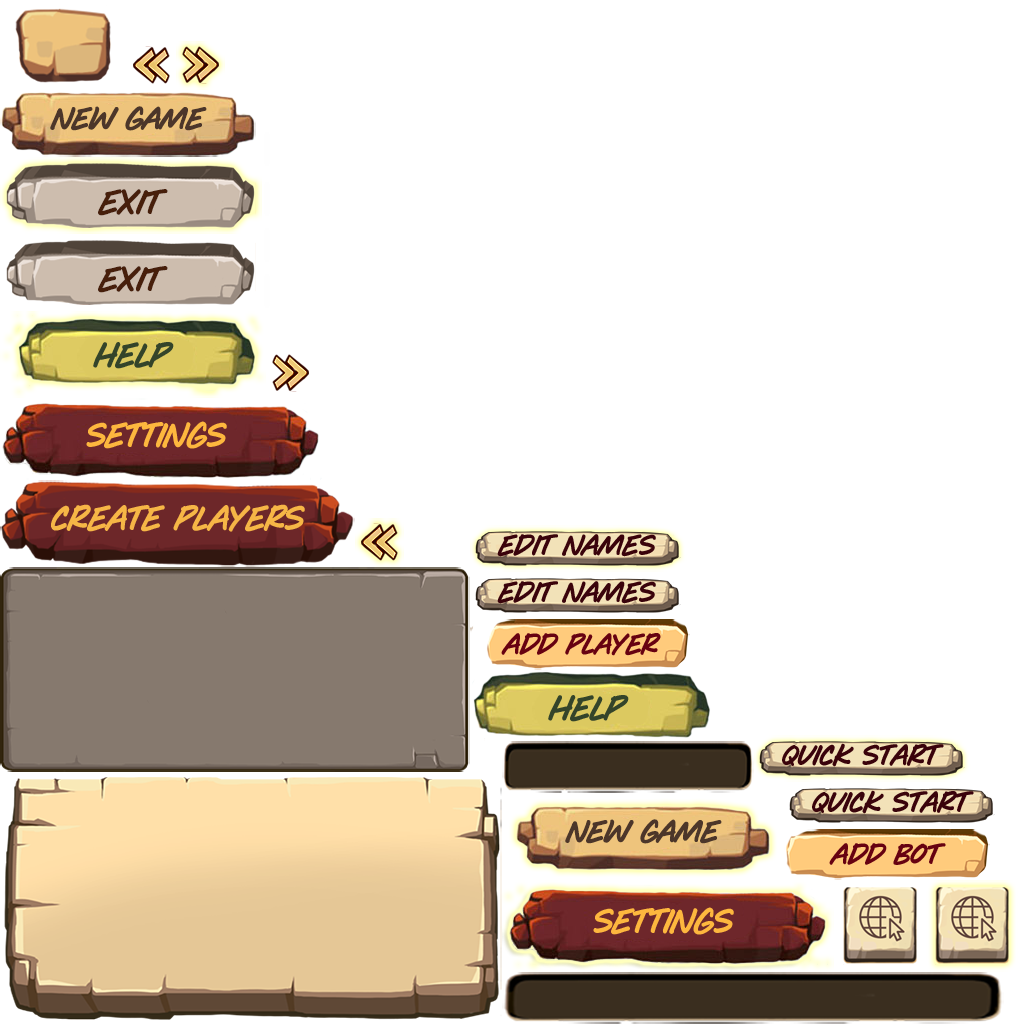
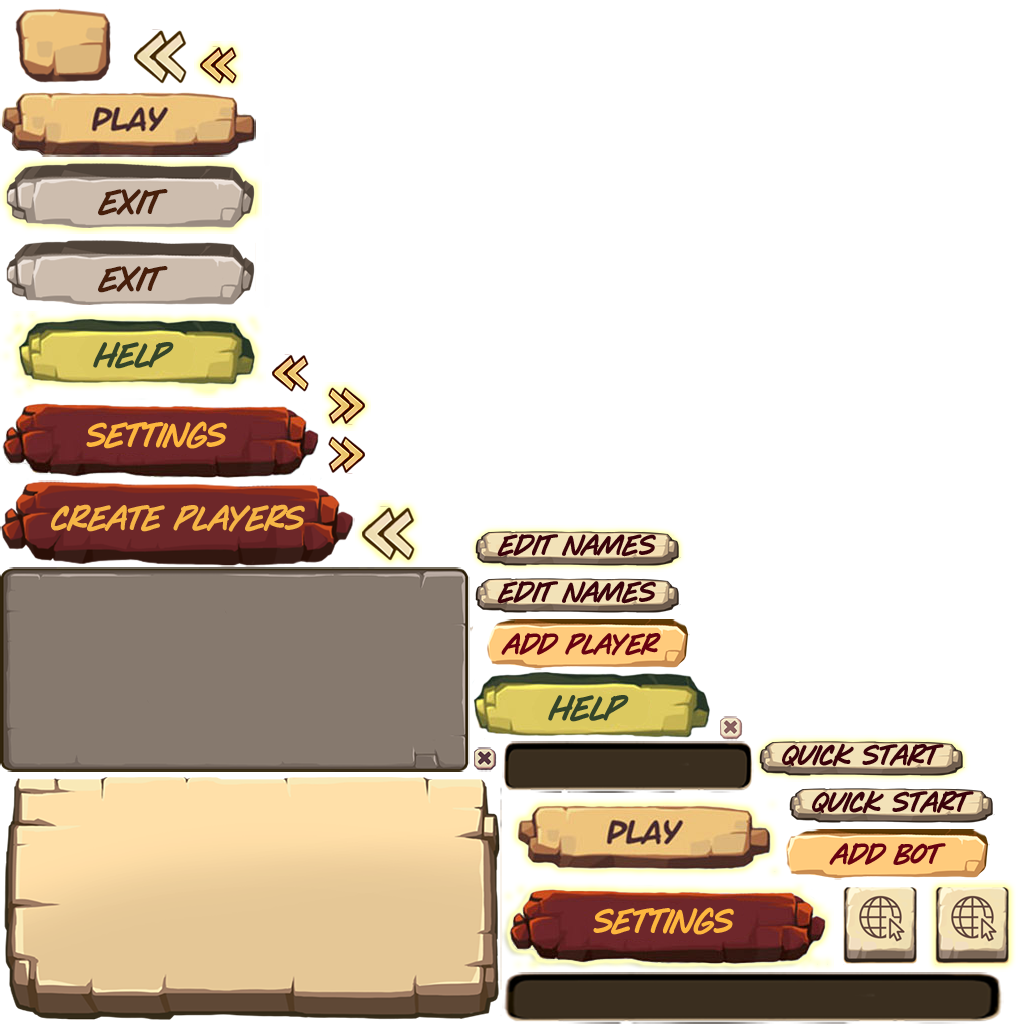
removed fade effect and made some changes to ui elements

diff --git a/libgdx/core/src/screens/screens/MainMenu.java b/libgdx/core/src/screens/screens/MainMenu.java
@@ -44,7 +44,8 @@ public class MainMenu implements Screen {
 	private Texture background;
 	private BitmapFont font;
 	private TextButtonStyle exitButtonStyle;
-private Table resetGame, noCurrentGame;
+    private Table resetGame, noCurrentGame;
+
 
 	public MainMenu(ScrabbleLauncher game) {
 		this.game = game;
@@ -65,10 +66,9 @@ private Table resetGame, noCurrentGame;
 
 		buttonAtlas = game.getAssetManager().manager.get(assetManager.mainMenuButtonPack);
 		skin.addRegions(buttonAtlas);
-		stage.addAction(Actions.sequence(Actions.alpha(0), Actions.fadeIn(1)));
 		altButtonAtlas = game.getAssetManager().manager.get(assetManager.gameButtonPack);
 		altSkin.addRegions(altButtonAtlas);
-		stage.addAction(Actions.sequence(Actions.alpha(0), Actions.fadeIn(1)));
+		
 	}
 
 	@Override
@@ -135,17 +135,13 @@ private Table resetGame, noCurrentGame;
 			@Override
 			public void clicked(InputEvent event, float x, float y) {
 
-				stage.addAction(Actions.sequence(Actions.fadeOut(0.2f), Actions.run(new Runnable() {
-
-					@Override
-					public void run() {
+				
 						hover.play(game.getSoundVol());
 						game.setScreen(new SettingsMenu(game));
 
 					}
-				})));
-			}
-		});
+				});
+		
 		stage.addActor(settings);
 
 		TextButtonStyle rulesButtonStyle = new TextButtonStyle();
@@ -160,17 +156,12 @@ private Table resetGame, noCurrentGame;
 			@Override
 			public void clicked(InputEvent event, float x, float y) {
 
-				stage.addAction(Actions.sequence(Actions.fadeOut(0.2f), Actions.run(new Runnable() {
-
-					@Override
-					public void run() {
 						hover.play(game.getSoundVol());
 						game.setScreen(new HelpMenu(game));
 
 					}
-				})));
-			}
-		});
+				});
+		
 		stage.addActor(rules);
 
 		exitButtonStyle = new TextButtonStyle();
@@ -447,7 +438,7 @@ private Table resetGame, noCurrentGame;
 					Game.start();
 
 					// fiddy
-					gunit.play();
+					gunit.play(game.getSoundVol());
 
 					System.out.println(setPlayerArray().toString());
 					game.setScreen(new GameScreen(game, setPlayerArray()));
@@ -514,10 +505,10 @@ private Table resetGame, noCurrentGame;
 		textButtonStyle.font =  font;
 		LabelStyle llabelStyle = new LabelStyle();
 		llabelStyle.font = font;
-		resetGame = continues(textButtonStyle, llabelStyle, skin.getDrawable("resultBox"), "Are you sure you want to start a new game instead of continuing?");
+		resetGame = continues(textButtonStyle, llabelStyle, skin.getDrawable("creationBox"), "Are you sure you want to start a new game instead of continuing?");
 		resetGame.setVisible(false);
 		stage.addActor(resetGame);
-		noCurrentGame = continues(textButtonStyle, llabelStyle, skin.getDrawable("resultBox"), "You have no game in progress. Start a new one?");
+		noCurrentGame = continues(textButtonStyle, llabelStyle, skin.getDrawable("creationBox"), "You have no game in progress. Start a new one?");
 		noCurrentGame.setVisible(false);
 		//stage.addActor(noCurrentGame);
 
@@ -537,6 +528,8 @@ private Table resetGame, noCurrentGame;
 			play.setPosition(515, 330f);
 			play.setSize(254.0f, 65.0f);
 		}
+		
+		
 		
 		if (continues.isOver()) {
 			continues.setSize(274f, 85f);
@@ -828,6 +821,7 @@ private Table resetGame, noCurrentGame;
 		
 
 		TextButton yes = new TextButton("Continue", tempStyle);
+		yes.getLabel().setColor(Color.BLACK);
 		yes.addListener(new ClickListener() {
 			@Override
 			public void clicked(InputEvent event, float x, float y) {
@@ -837,18 +831,24 @@ private Table resetGame, noCurrentGame;
 			};
 		});
 		TextButton no = new TextButton("New Game", tempStyle);
+		no.getLabel().setColor(Color.BLACK);
 		no.addListener(new ClickListener() {
 			@Override
 			public void clicked(InputEvent event, float x, float y) {
 				menuType = 1;
 				Game.reset();
+				table.setVisible(false);
 				noCurrentGame.setVisible(false);
 			};
 		});
-		TextButton cancel = new TextButton("Cancel", tempStyle);
-		no.addListener(new ClickListener() {
+		
+		// little x button for do you want to continue or start new game pop up
+		TextButton cancel = new TextButton("Cancel", tempStyle );
+		cancel.getLabel().setColor(Color.BLACK);
+		cancel.addListener(new ClickListener() {
 			@Override
 			public void clicked(InputEvent event, float x, float y) {
+				table.setVisible(false);
 				noCurrentGame.setVisible(false);
 			};
 		});

diff --git a/libgdx/core/src/screens/screens/HelpMenu.java b/libgdx/core/src/screens/screens/HelpMenu.java
@@ -72,7 +72,7 @@ public class HelpMenu implements Screen {
 		/// create stage and set it as input processor
 		stage = new Stage(new ScreenViewport());
 		
-		stage.addAction(Actions.sequence(Actions.alpha(0), Actions.fadeIn(1)));
+		
 
 	}
 
@@ -167,22 +167,15 @@ public class HelpMenu implements Screen {
 			@Override
 			public void clicked(InputEvent event, float x, float y) {
 
-				stage.addAction(Actions.sequence(Actions.fadeOut(0.2f), Actions.run(new Runnable() {
-
-					@Override
-					public void run() {
+				
 
 						hover.play(game.getSoundVol());
 						game.setScreen(new MainMenu(game));
 
 					}
-				})));
-			}
-		});
+				});
+		
 		stage.addActor(exit);
-		
-		stage.addAction(Actions.sequence(Actions.alpha(0), Actions.fadeIn(1)));
-		
 
 		Gdx.input.setInputProcessor(stage);
 

diff --git a/libgdx/core/src/screens/screens/SettingsMenu.java b/libgdx/core/src/screens/screens/SettingsMenu.java
@@ -46,7 +46,7 @@ public class SettingsMenu implements Screen {
 	private TextButton soundButton;
 	private Sound hover;
 	private TextButton musicButton;
-	private boolean firstFrame;
+
 
 	public SettingsMenu(ScrabbleLauncher game) {
 		this.game = game;
@@ -167,21 +167,14 @@ public class SettingsMenu implements Screen {
 			@Override
 			public void clicked(InputEvent event, float x, float y) {
 
-				stage.addAction(Actions.sequence(Actions.fadeOut(0.2f), Actions.run(new Runnable() {
-
-					@Override
-					public void run() {
-
 						hover.play(game.getSoundVol());
 						game.setScreen(new MainMenu(game));
 
 					}
-				})));
-			}
 		});
 		stage.addActor(menu);
 
-		stage.addAction(Actions.sequence(Actions.alpha(0), Actions.fadeIn(1)));
+
 
 	}
 
